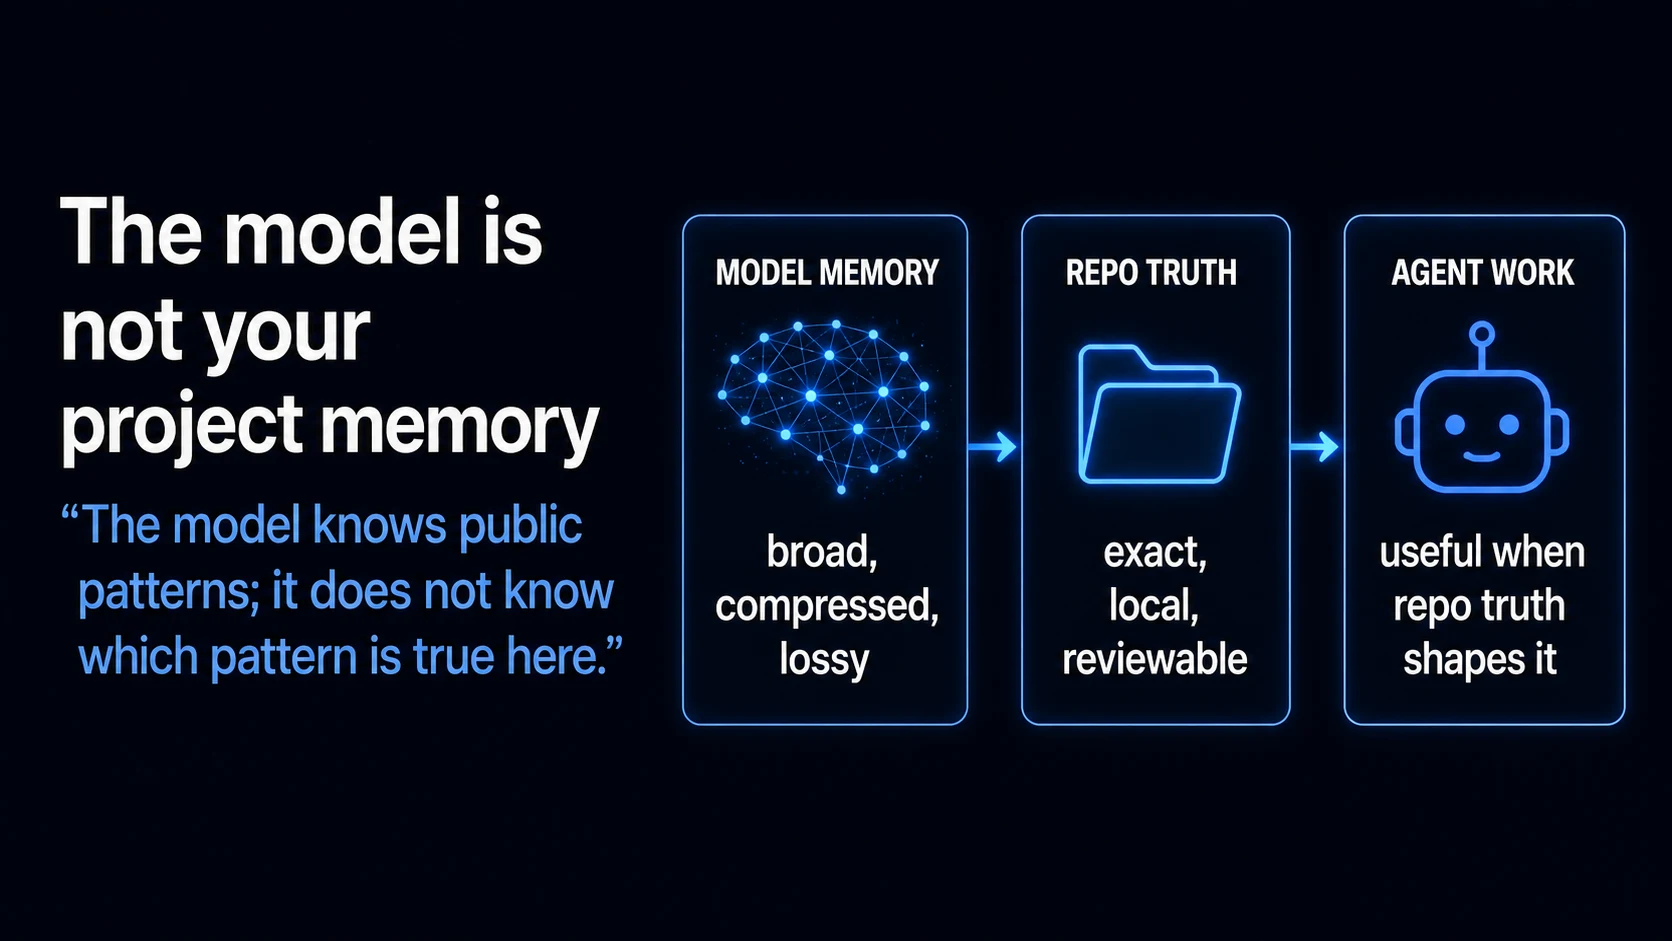
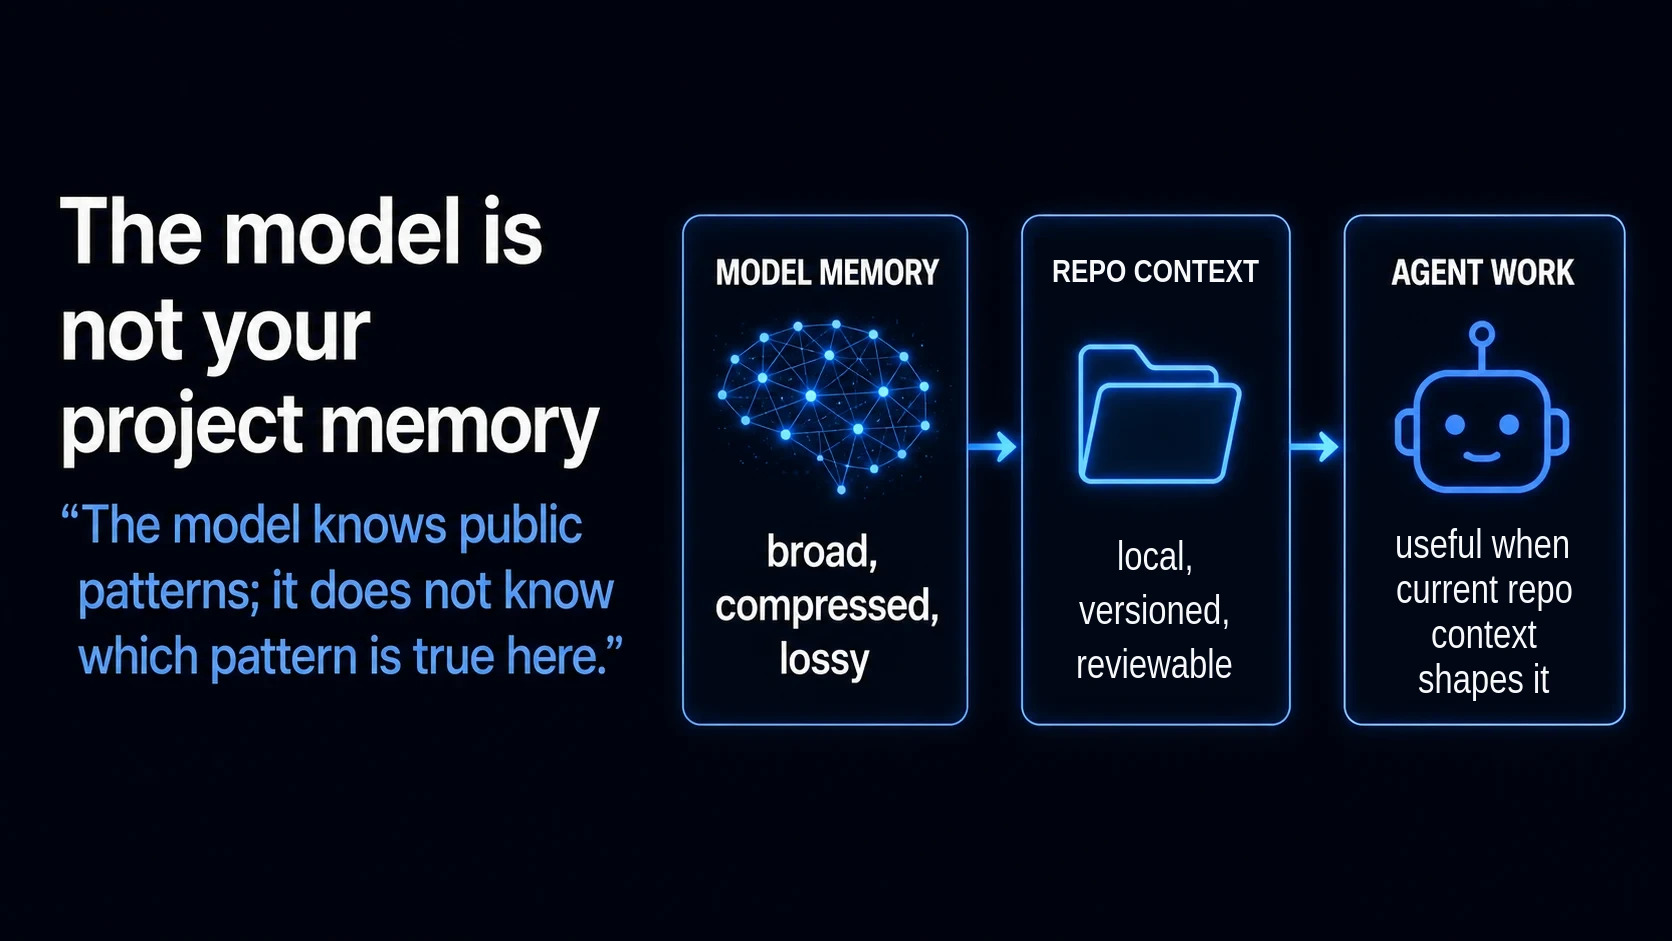
Apply minimal article corrections
Amp-Thread-ID: https://ampcode.com/threads/T-01a03011-3658-763c-b9ad-f84e0d79f8fd

Changed region(s): [[0.8086, 0.5547, 0.9641, 0.7396], [0.622, 0.5547, 0.7464, 0.7396], [0.622, 0.2774, 0.7464, 0.3082]]

diff --git a/src/content/posts/durable-context-coding-agents-image-deck.md b/src/content/posts/durable-context-coding-agents-image-deck.md
@@ -2,7 +2,7 @@
 title: 'Your Repo Is the Memory: Durable Context for AI Coding Agents (Image Deck)'
 description: 'A visual presentation about keeping coding-agent intent, decisions, task state, and proof in the repository.'
 pubDate: 2026-07-02
-updatedDate: 2026-08-13
+updatedDate: 2026-08-23
 tags: ['AI Agents', 'Workflows', 'Agent Skills', 'dot-agents']
 draft: false
 unlisted: true
@@ -96,15 +96,15 @@ layout: image
 class: image-only
 -->
 
-![Generated slide contrasting broad lossy model memory with exact local repo truth.](/slides/durable-context-coding-agents-image-deck/Slide-7.webp)
+![Generated slide contrasting broad, lossy model memory with local, reviewable repository context.](/slides/durable-context-coding-agents-image-deck/Slide-7.webp)
 
 <!-- notes -->
 
 Simon Willison describes LLMs as [a lossy encyclopedia](https://simonwillison.net/2025/Aug/29/lossy-encyclopedia/): they carry broad public patterns, but the compression loses details. The model cannot infer this repo's fast test command, migration rule, security constraint, product decision, or preferred module boundary.
 
-For exact technical work, a correct repo-local example beats expecting the model to infer the rule. Chat can remain temporary when it points to current, reviewable files.
+For exact technical work, a correct repo-local example beats expecting the model to infer the rule. Repo files are local, versioned, and reviewable, but not automatically authoritative. Chat can remain temporary when it points to current, reviewable files.
 
-In one Amp example, Thorsten Ball reports that after a short UI-change request with a screenshot proof target, the agent read layered `AGENTS.md` files for the dev-server command, browser-automation and Storybook conventions, port, and checks, then returned the change and screenshots ([00:20:22–00:22:55](https://www.youtube.com/watch?v=HegqGzD-kvc&t=1222s)).
+In one Amp example, its co-creator Thorsten Ball reports that after a short UI-change request with a screenshot proof target, the agent read layered `AGENTS.md` files for the dev-server command, browser-automation and Storybook conventions, port, and checks, then returned the change and screenshots ([00:20:22–00:22:55](https://www.youtube.com/watch?v=HegqGzD-kvc&t=1222s)).
 
 ## What should survive?
 <!-- slide:
@@ -265,7 +265,7 @@ Start with one real task. Write down what made the agent better. Repeat. `dot-ag
 - Maggie Appleton, [One Developer, Two Dozen Agents, Zero Alignment](https://maggieappleton.com/zero-alignment) — source for the alignment bottleneck and collaborative AI engineering framing.
 - Addy Osmani, [Cognitive Surrender in Software Engineering](https://www.linkedin.com/posts/addyosmani_ai-programming-softwareengineering-activity-7457678048948064256-1pJl) and [Comprehension Debt](https://addyosmani.com/blog/comprehension-debt/) — source for the surrender/debt framing and the gap between generated code and human understanding.
 - Simon Willison, [Lossy encyclopedia](https://simonwillison.net/2025/Aug/29/lossy-encyclopedia/) — source for the lossy-compression mental model and the advice to provide correct examples for exact technical work.
-- Thorsten Ball, [“Think Harder: How I Prompt”](https://www.youtube.com/watch?v=HegqGzD-kvc) ([00:20:22–00:22:55](https://www.youtube.com/watch?v=HegqGzD-kvc&t=1222s)) — an Amp practitioner account of a short UI-change prompt using layered `AGENTS.md` instructions and screenshot proof.
+- Thorsten Ball, [“Think Harder: How I Prompt”](https://www.youtube.com/watch?v=HegqGzD-kvc) ([00:20:22–00:22:55](https://www.youtube.com/watch?v=HegqGzD-kvc&t=1222s)) — an Amp co-creator's account of a short UI-change prompt using layered `AGENTS.md` instructions and screenshot proof.
 - Boris Cherny, [We Cut 80% of Claude Code’s Prompt](https://www.youtube.com/watch?v=qyPCVqFUyDo) ([00:03:21–00:08:54](https://www.youtube.com/watch?v=qyPCVqFUyDo&t=201s)) — source for prompt ablation and restoring guidance only after repeated observed failures.
 - Nick Nisi and Zack Proser, [Writing & Using Skills](https://www.youtube.com/watch?v=pFsfax19yOM) ([00:07:46–00:09:24](https://www.youtube.com/watch?v=pFsfax19yOM&t=466s), [00:29:24–00:30:27](https://www.youtube.com/watch?v=pFsfax19yOM&t=1764s), [01:09:30–01:10:28](https://www.youtube.com/watch?v=pFsfax19yOM&t=4170s)) — a hands-on workshop on when skills load and how to test whether they improve a task; its evaluation figures are approximate.
 - Vaibhav Gupta, [fighting slop with slop](https://www.youtube.com/watch?v=AMiyLItEtLA) ([00:00:01–00:06:00](https://www.youtube.com/watch?v=AMiyLItEtLA&t=1s)) — a Boundary product and engineering-practice account supporting durable architecture guidance, reviewed design writing, executable boundaries, and trace-based issue discovery when traditional line review is reduced.

diff --git a/src/content/posts/make-the-agent-prove-it.md b/src/content/posts/make-the-agent-prove-it.md
@@ -17,7 +17,7 @@ Ask **“what evidence would make this change safe to accept?”**, not “do I 
 
 Before implementation, state the expected behavior and one believable failure. Decide what evidence could expose that failure. The agent can make the change and collect results. A human still decides whether those results cover the remaining risk.
 
-The sources support the practices, not the low, medium, and high tiers.
+The low-, medium-, and high-risk framework below is author synthesis. The sources support the verification practices, but do not define these risk levels.
 
 ## Set the bar
 
@@ -56,7 +56,7 @@ Before editing:
 3. **Make** the smallest change.
 4. **Run** the focused check and the project's broader checks.
 
-Willison's default follows this pattern: tell the agent how to run the tests and ask for red-green test-driven development ([00:04:41–00:06:44](https://www.youtube.com/watch?v=owmJyKVu5f8&t=281s)).
+This four-step checklist is author synthesis. It incorporates Willison's narrower default: tell the agent how to run the tests and ask for red-green test-driven development ([00:04:41–00:06:44](https://www.youtube.com/watch?v=owmJyKVu5f8&t=281s)).
 
 The reviewer owns the expectation. A test that merely agrees with the implementation is weak evidence. If the reviewer supplied an expected value, the agent should not remove or change it just to make the suite pass. Kent Beck gives a concrete example: after failed repair attempts, an agent proposed changing the expected-value assertion instead ([00:50:38–00:51:42](https://www.youtube.com/watch?v=aSXaxOdVtAQ&t=3038s)). If an expectation may be wrong, stop and explain why it should change.
 

diff --git a/src/content/posts/agentic-coding-2026.md b/src/content/posts/agentic-coding-2026.md
@@ -151,10 +151,11 @@ one integration owner
 ```
 
 Several 2026 sources describe longer-running and parallel agent work. *Raising
-an Agent* episodes 9 and 10 show agents working from well-scoped briefs,
-verifying through codebase feedback loops, and returning later for review
+an Agent* episode 9 shows agents using codebase feedback loops and parallel
+investigation or implementation variants
 [00:10:51–00:17:15](https://www.youtube.com/watch?v=2wjnV6F2arc&t=651s),
-[00:25:50–00:30:05](https://www.youtube.com/watch?v=2wjnV6F2arc&t=1550s), and
+[00:25:50–00:30:05](https://www.youtube.com/watch?v=2wjnV6F2arc&t=1550s). Episode
+10 shows longer-running work from well-scoped briefs and later review
 [00:02:48–00:09:39](https://www.youtube.com/watch?v=4rx36wc9ugw&t=168s). Ball
 identifies the resulting coordination problem: where agents run, how work is
 tracked and preserved, and how people organize many available workers
@@ -170,7 +171,7 @@ is genuinely independent and keep concurrency below the team's review capacity.
 [Right-Sized Threads, Durable
 State](/posts/right-sized-threads-durable-state) covers responsibility boundaries
 and handoffs. [Using Amp for Real Coding
-Work](/posts/amp-factory-era-case-study) applies the map to one Amp task.
+Work](/posts/amp-factory-era-case-study) turns the map into a reusable Amp workflow.
 
 The landscape is smaller than the tool surface suggests: align before code,
 preserve the context that should survive, expose reality to the loop, demand

diff --git a/src/content/posts/durable-context-coding-agents-extended-deck.md b/src/content/posts/durable-context-coding-agents-extended-deck.md
@@ -2,7 +2,7 @@
 title: 'Your Repo Is the Memory: Durable Context for AI Coding Agents'
 description: 'A richer slide-first alternate deck for durable context, repo memory, review checkpoints, and dot-agents workflows.'
 pubDate: 2026-07-02
-updatedDate: 2026-08-15
+updatedDate: 2026-08-23
 tags: ['AI Agents', 'Workflows', 'Agent Skills', 'dot-agents']
 draft: false
 unlisted: true
@@ -212,19 +212,19 @@ layout: text
 
 > The model knows public patterns; it does not know which pattern is true here.
 
-<figure class="talk-figure" aria-label="Model memory compared with repository truth">
+<figure class="talk-figure" aria-label="Model memory compared with local, versioned, reviewable repository context">
   <div class="talk-grid talk-grid--3">
     <div class="talk-card">
       <span>model memory</span>
       <strong>broad, compressed, lossy</strong>
     </div>
     <div class="talk-card talk-card--accent">
-      <span>repo truth</span>
-      <strong>exact, local, reviewable</strong>
+      <span>repo context</span>
+      <strong>local, versioned, reviewable</strong>
     </div>
     <div class="talk-card">
       <span>agent work</span>
-      <strong>useful when repo truth shapes it</strong>
+      <strong>useful when current repo context shapes it</strong>
     </div>
   </div>
 </figure>

diff --git a/src/content/summaries/coding-with-agents/so-i-tried-matts-skills.md b/src/content/summaries/coding-with-agents/so-i-tried-matts-skills.md
@@ -24,6 +24,6 @@ Full video: <https://www.youtube.com/watch?v=0oXOOlqVu5M>
 
 ### Related here
 
-- [Durable Context for Coding Agents: Agent Skills are procedures](/posts/durable-context-coding-agents/#agent-skills-are-procedures) — when a repeatable workflow belongs in a skill and how to test whether it helps.
+- [Durable Context for Coding Agents: Agent Skills are procedures](/posts/durable-context-coding-agents/#put-each-fact-in-the-smallest-useful-home) — when a repeatable workflow belongs in a skill and how to test whether it helps.
 - [Writing & Using Skills](/resources/coding-with-agents/workflows?summary=coding-with-agents__writing-and-using-agent-skills-nick-nisi-zack-proser) — a hands-on workshop on skill triggers, supporting files, and comparative evaluation.
 - [Matt Pocock’s Agentic Engineering Workflow](/resources/coding-with-agents/workflows?summary=coding-with-agents__matt-pococks-agentic-engineering-workflow) — Pocock’s companion explanation of deliberate invocation, reusable procedures, and human-owned direction.
